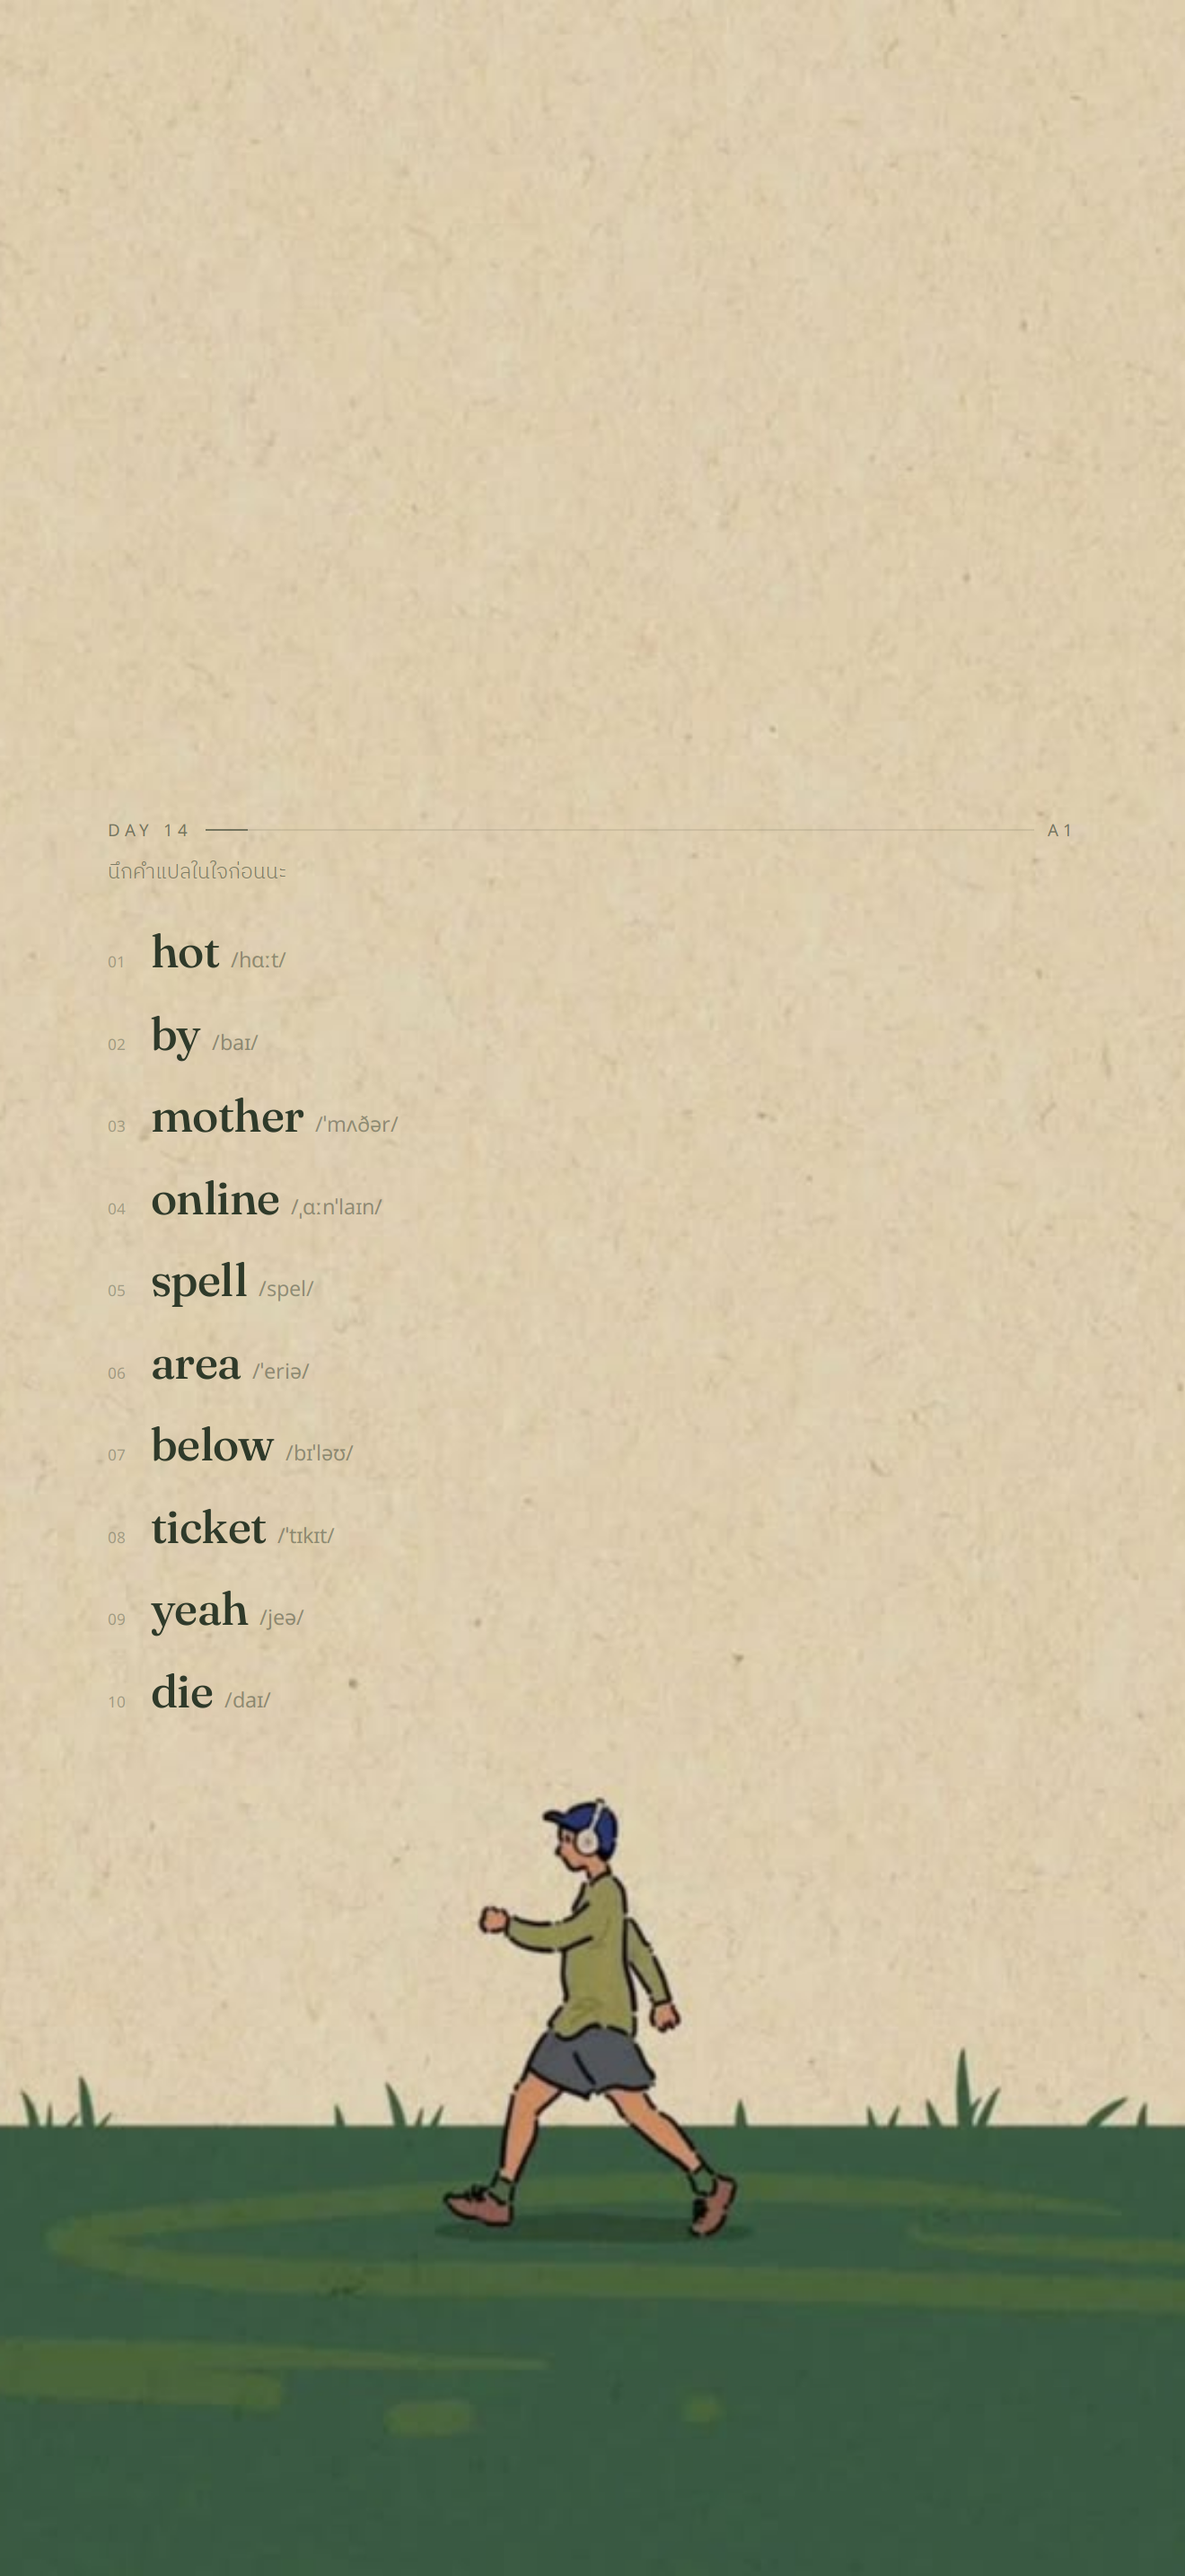
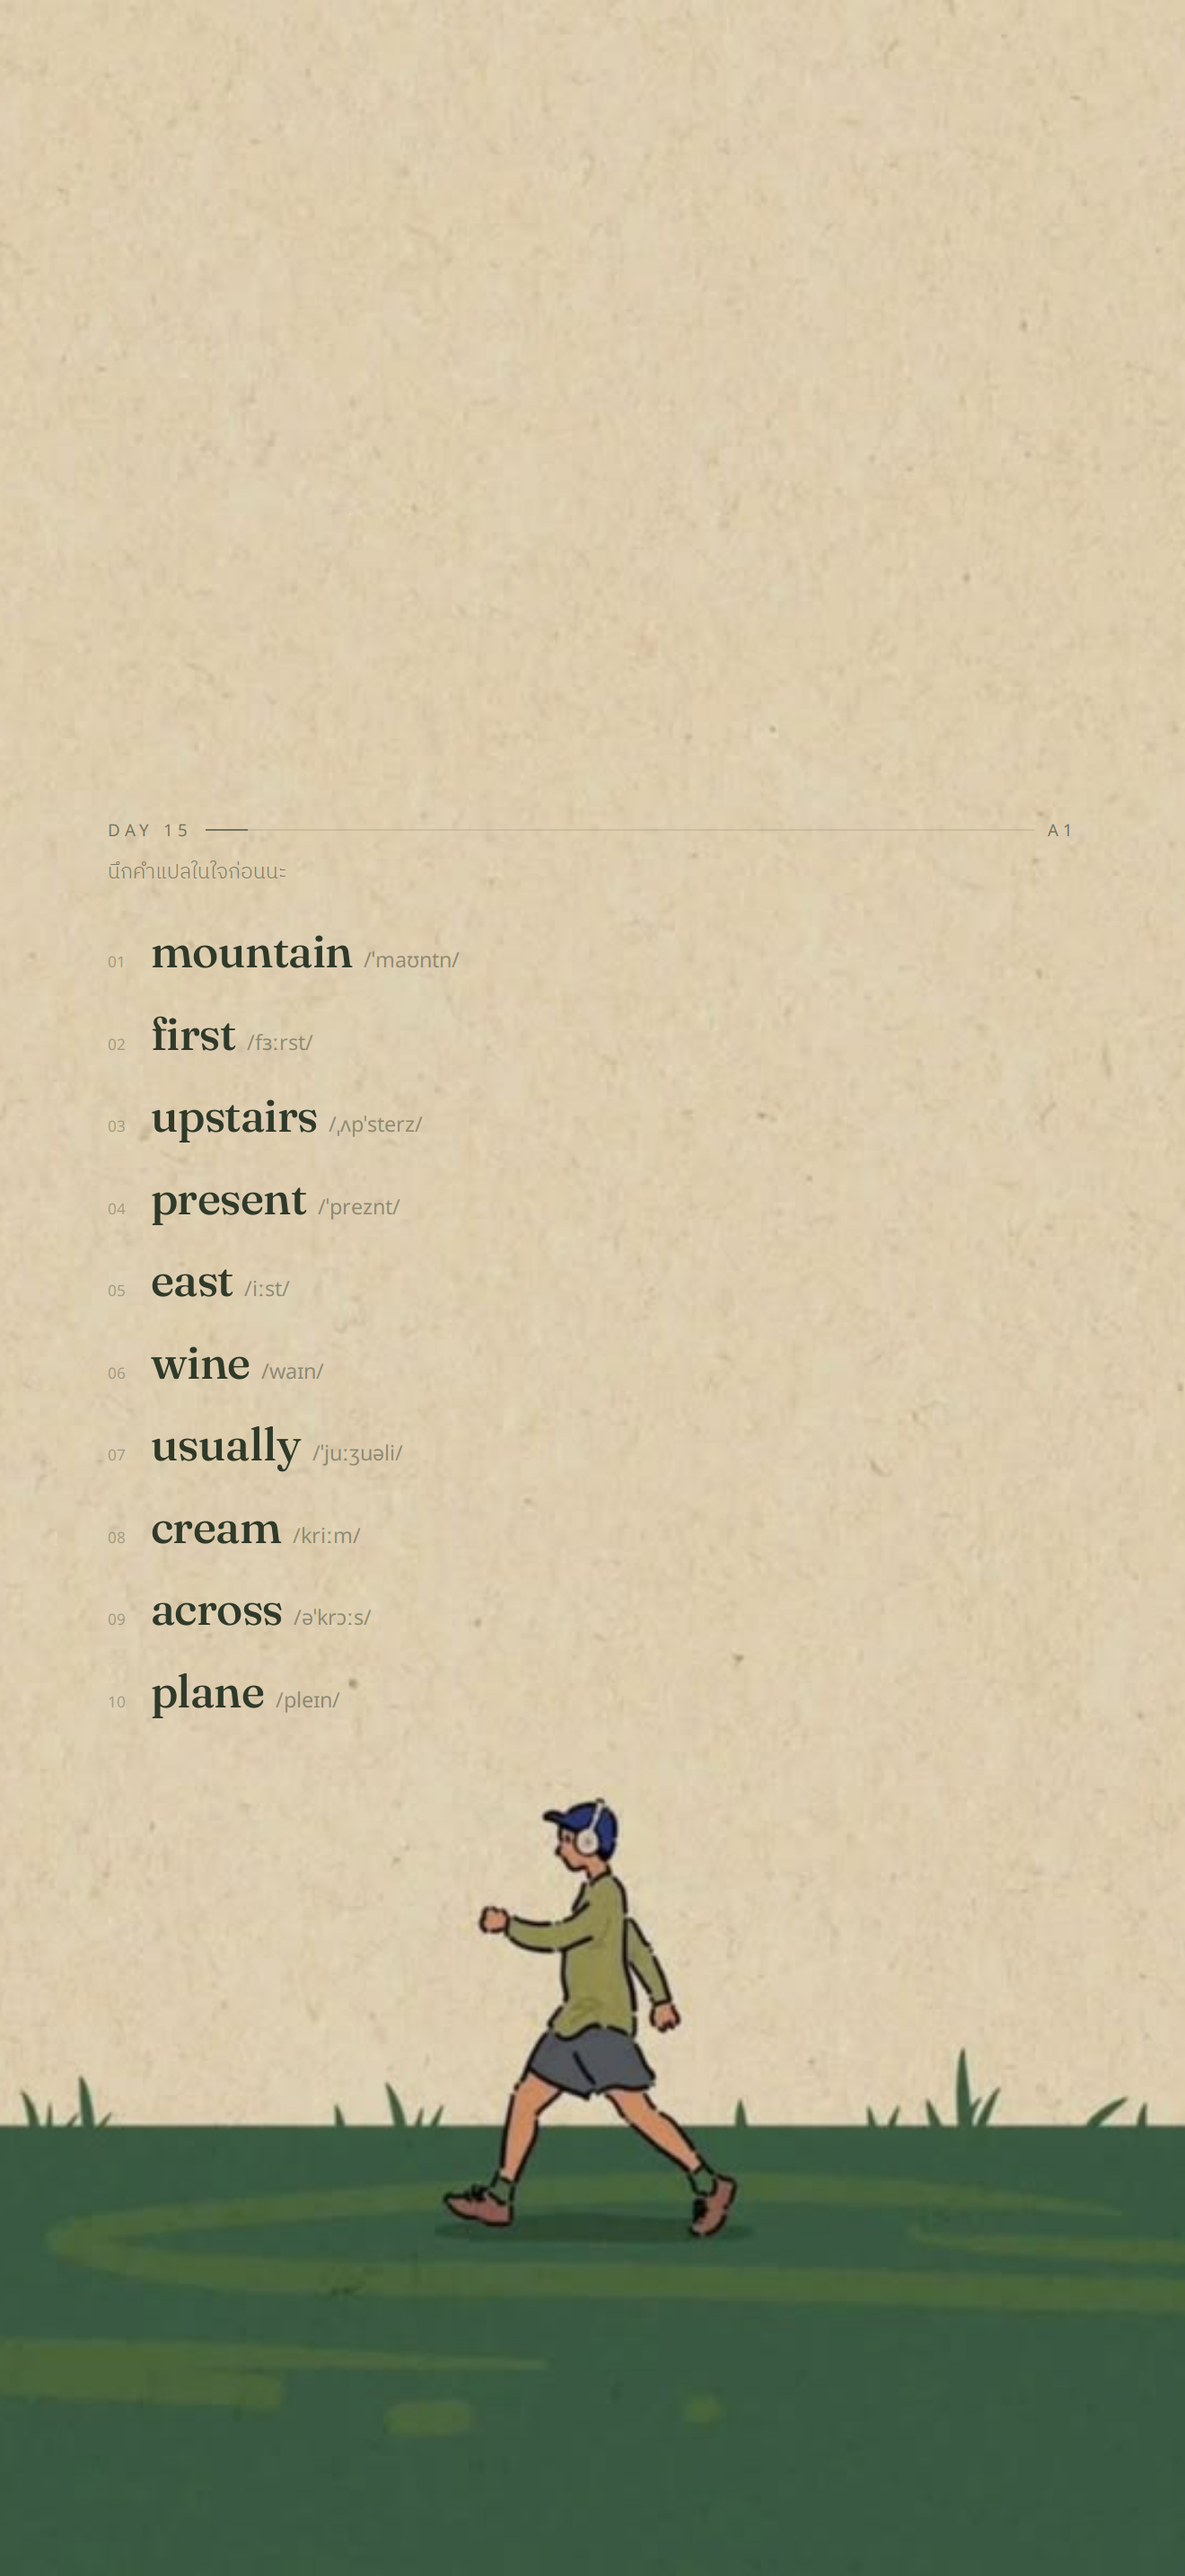
wallpaper: Day 15/298

Changed region(s): [[0.1242, 0.3414, 0.2795, 0.6827], [0.2485, 0.3414, 0.2795, 0.3724]]

diff --git a/docs/index.html b/docs/index.html
@@ -1,5 +1,5 @@
 <!DOCTYPE html><html lang="th"><head><meta charset="utf-8">
-<meta name="viewport" content="width=device-width,initial-scale=1"><title>Day 14 vocab wallpaper</title>
+<meta name="viewport" content="width=device-width,initial-scale=1"><title>Day 15 vocab wallpaper</title>
 <style>body{font-family:system-ui;background:#111;color:#eee;text-align:center;margin:24px}img{width:min(45vw,330px);border-radius:28px;margin:8px}</style></head>
-<body><h1>Day 14 / 298</h1><p>อัปเดต 2026-11-10T02:47:07.480Z</p>
-<a href="today.png"><img src="today.png?v=14" alt="today"></a><a href="quiz.png"><img src="quiz.png?v=14" alt="quiz"></a></body></html>
+<body><h1>Day 15 / 298</h1><p>อัปเดต 2026-11-10T22:24:01.308Z</p>
+<a href="today.png"><img src="today.png?v=15" alt="today"></a><a href="quiz.png"><img src="quiz.png?v=15" alt="quiz"></a></body></html>
